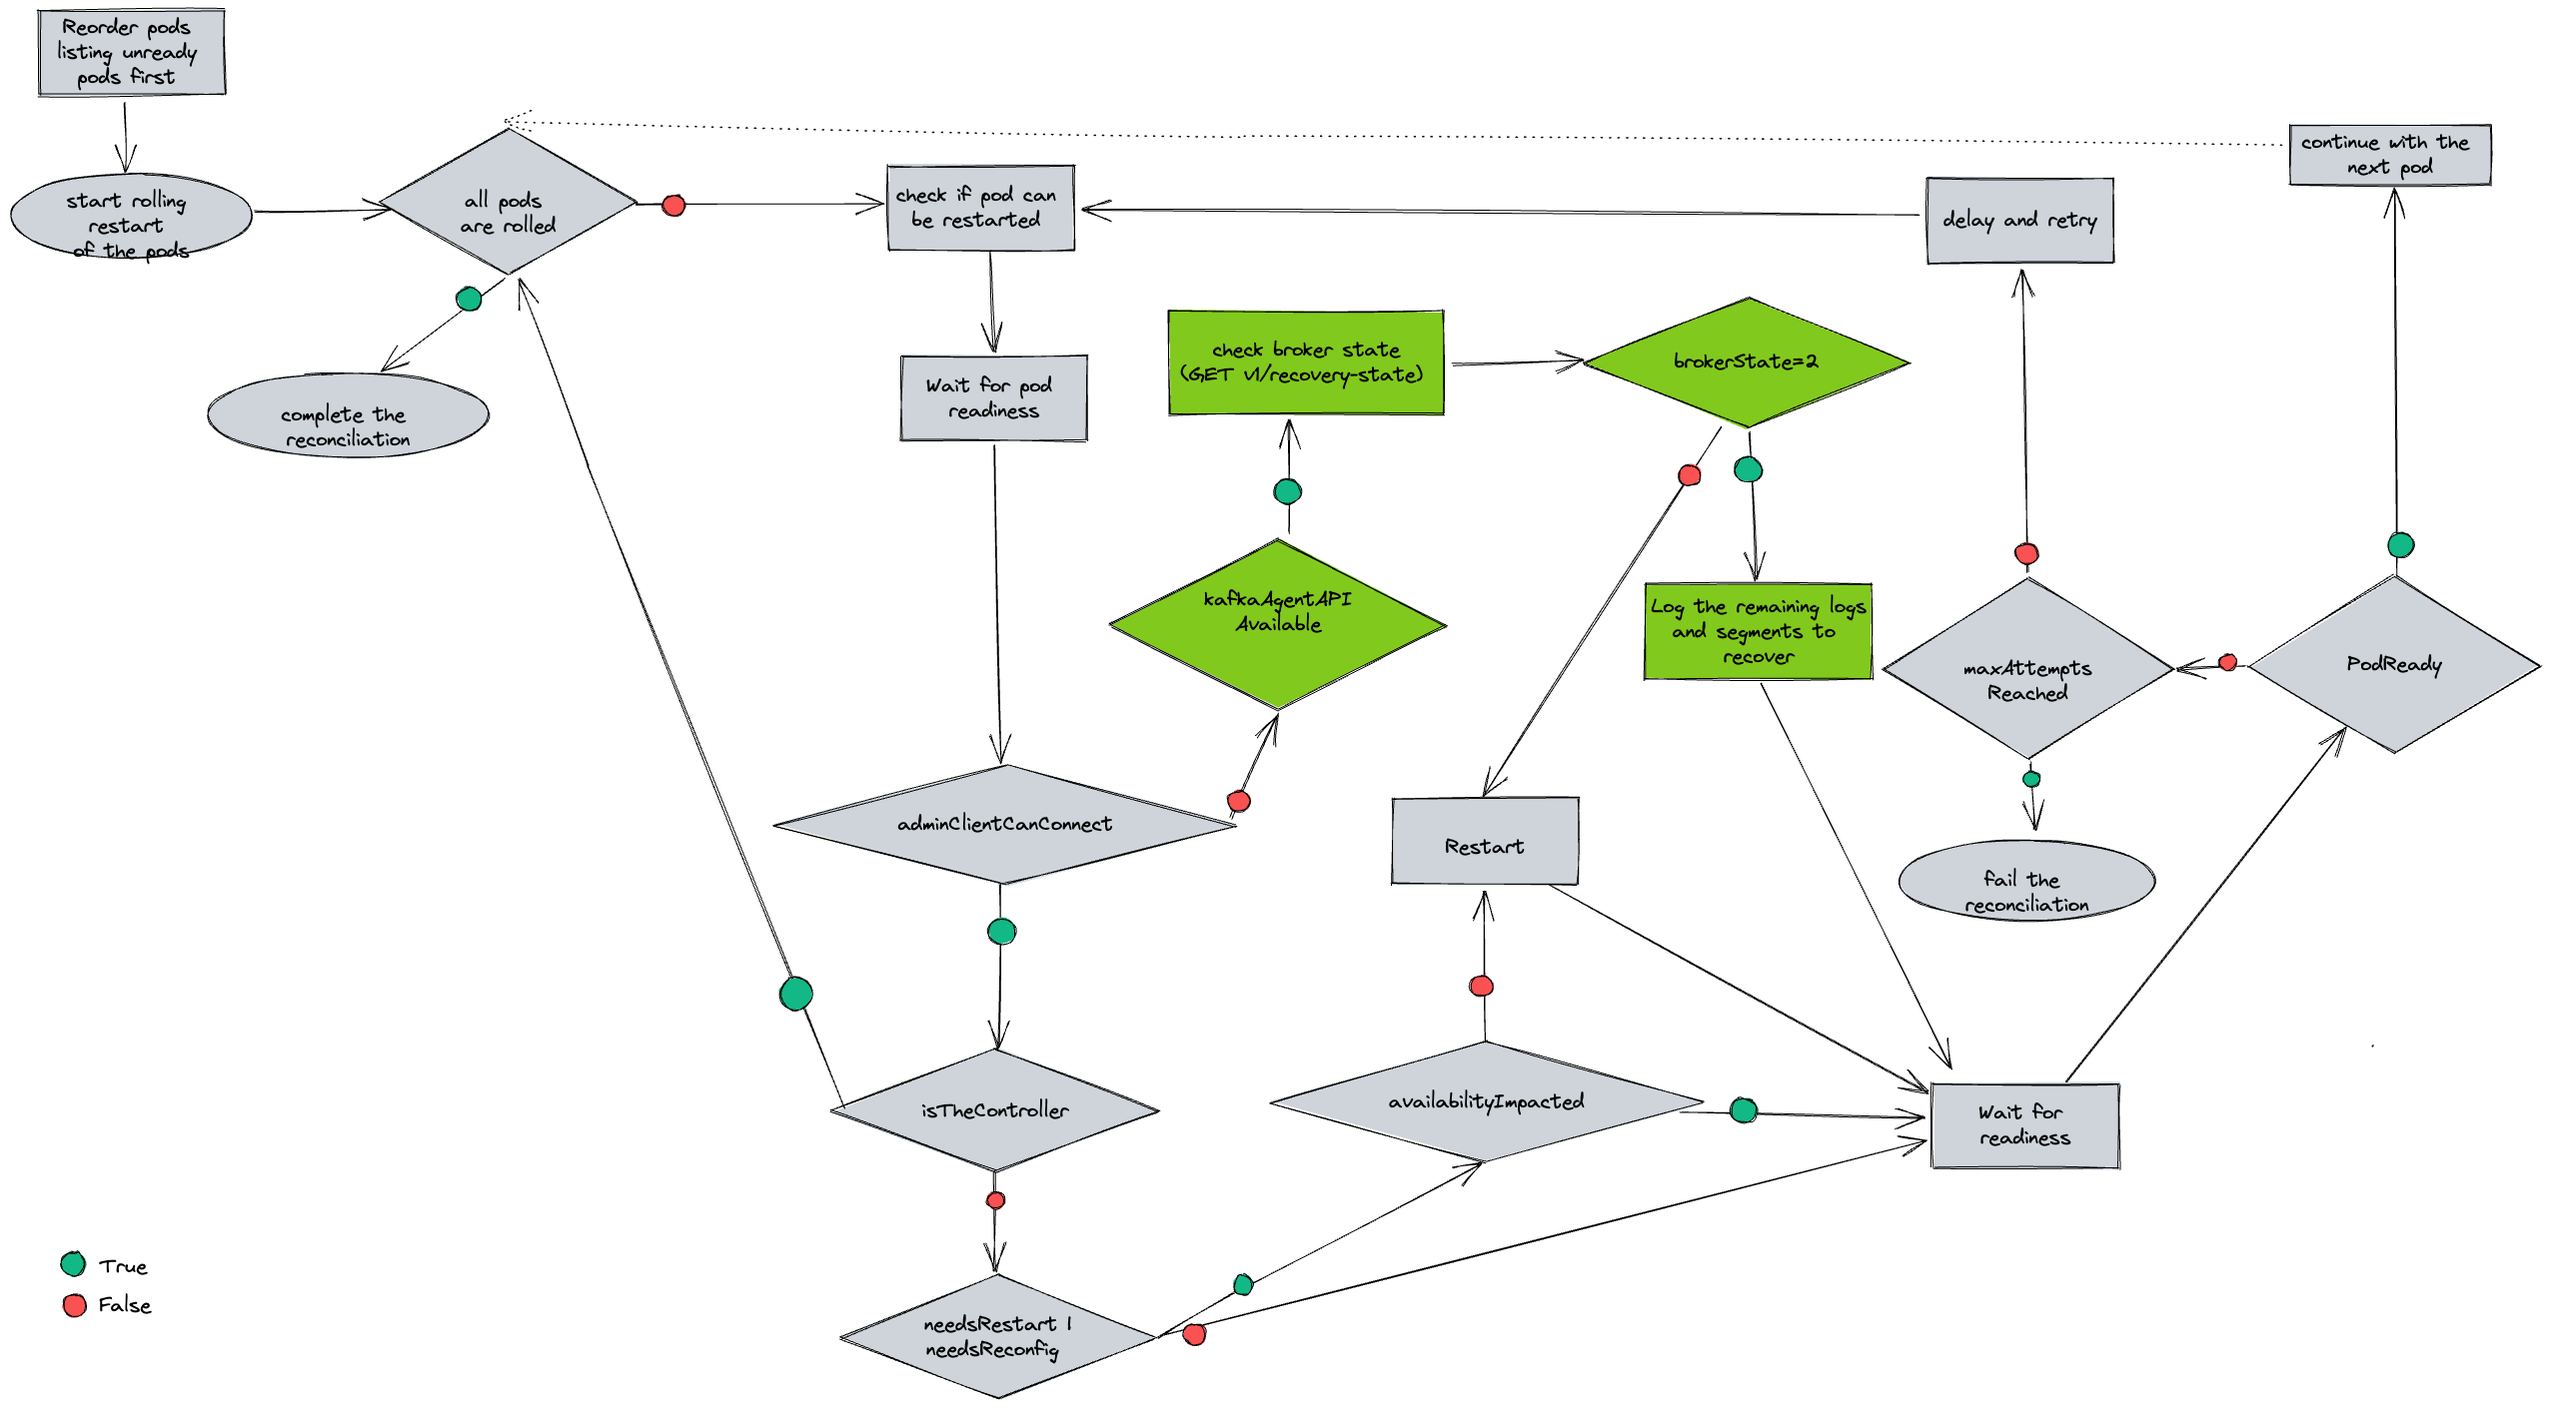
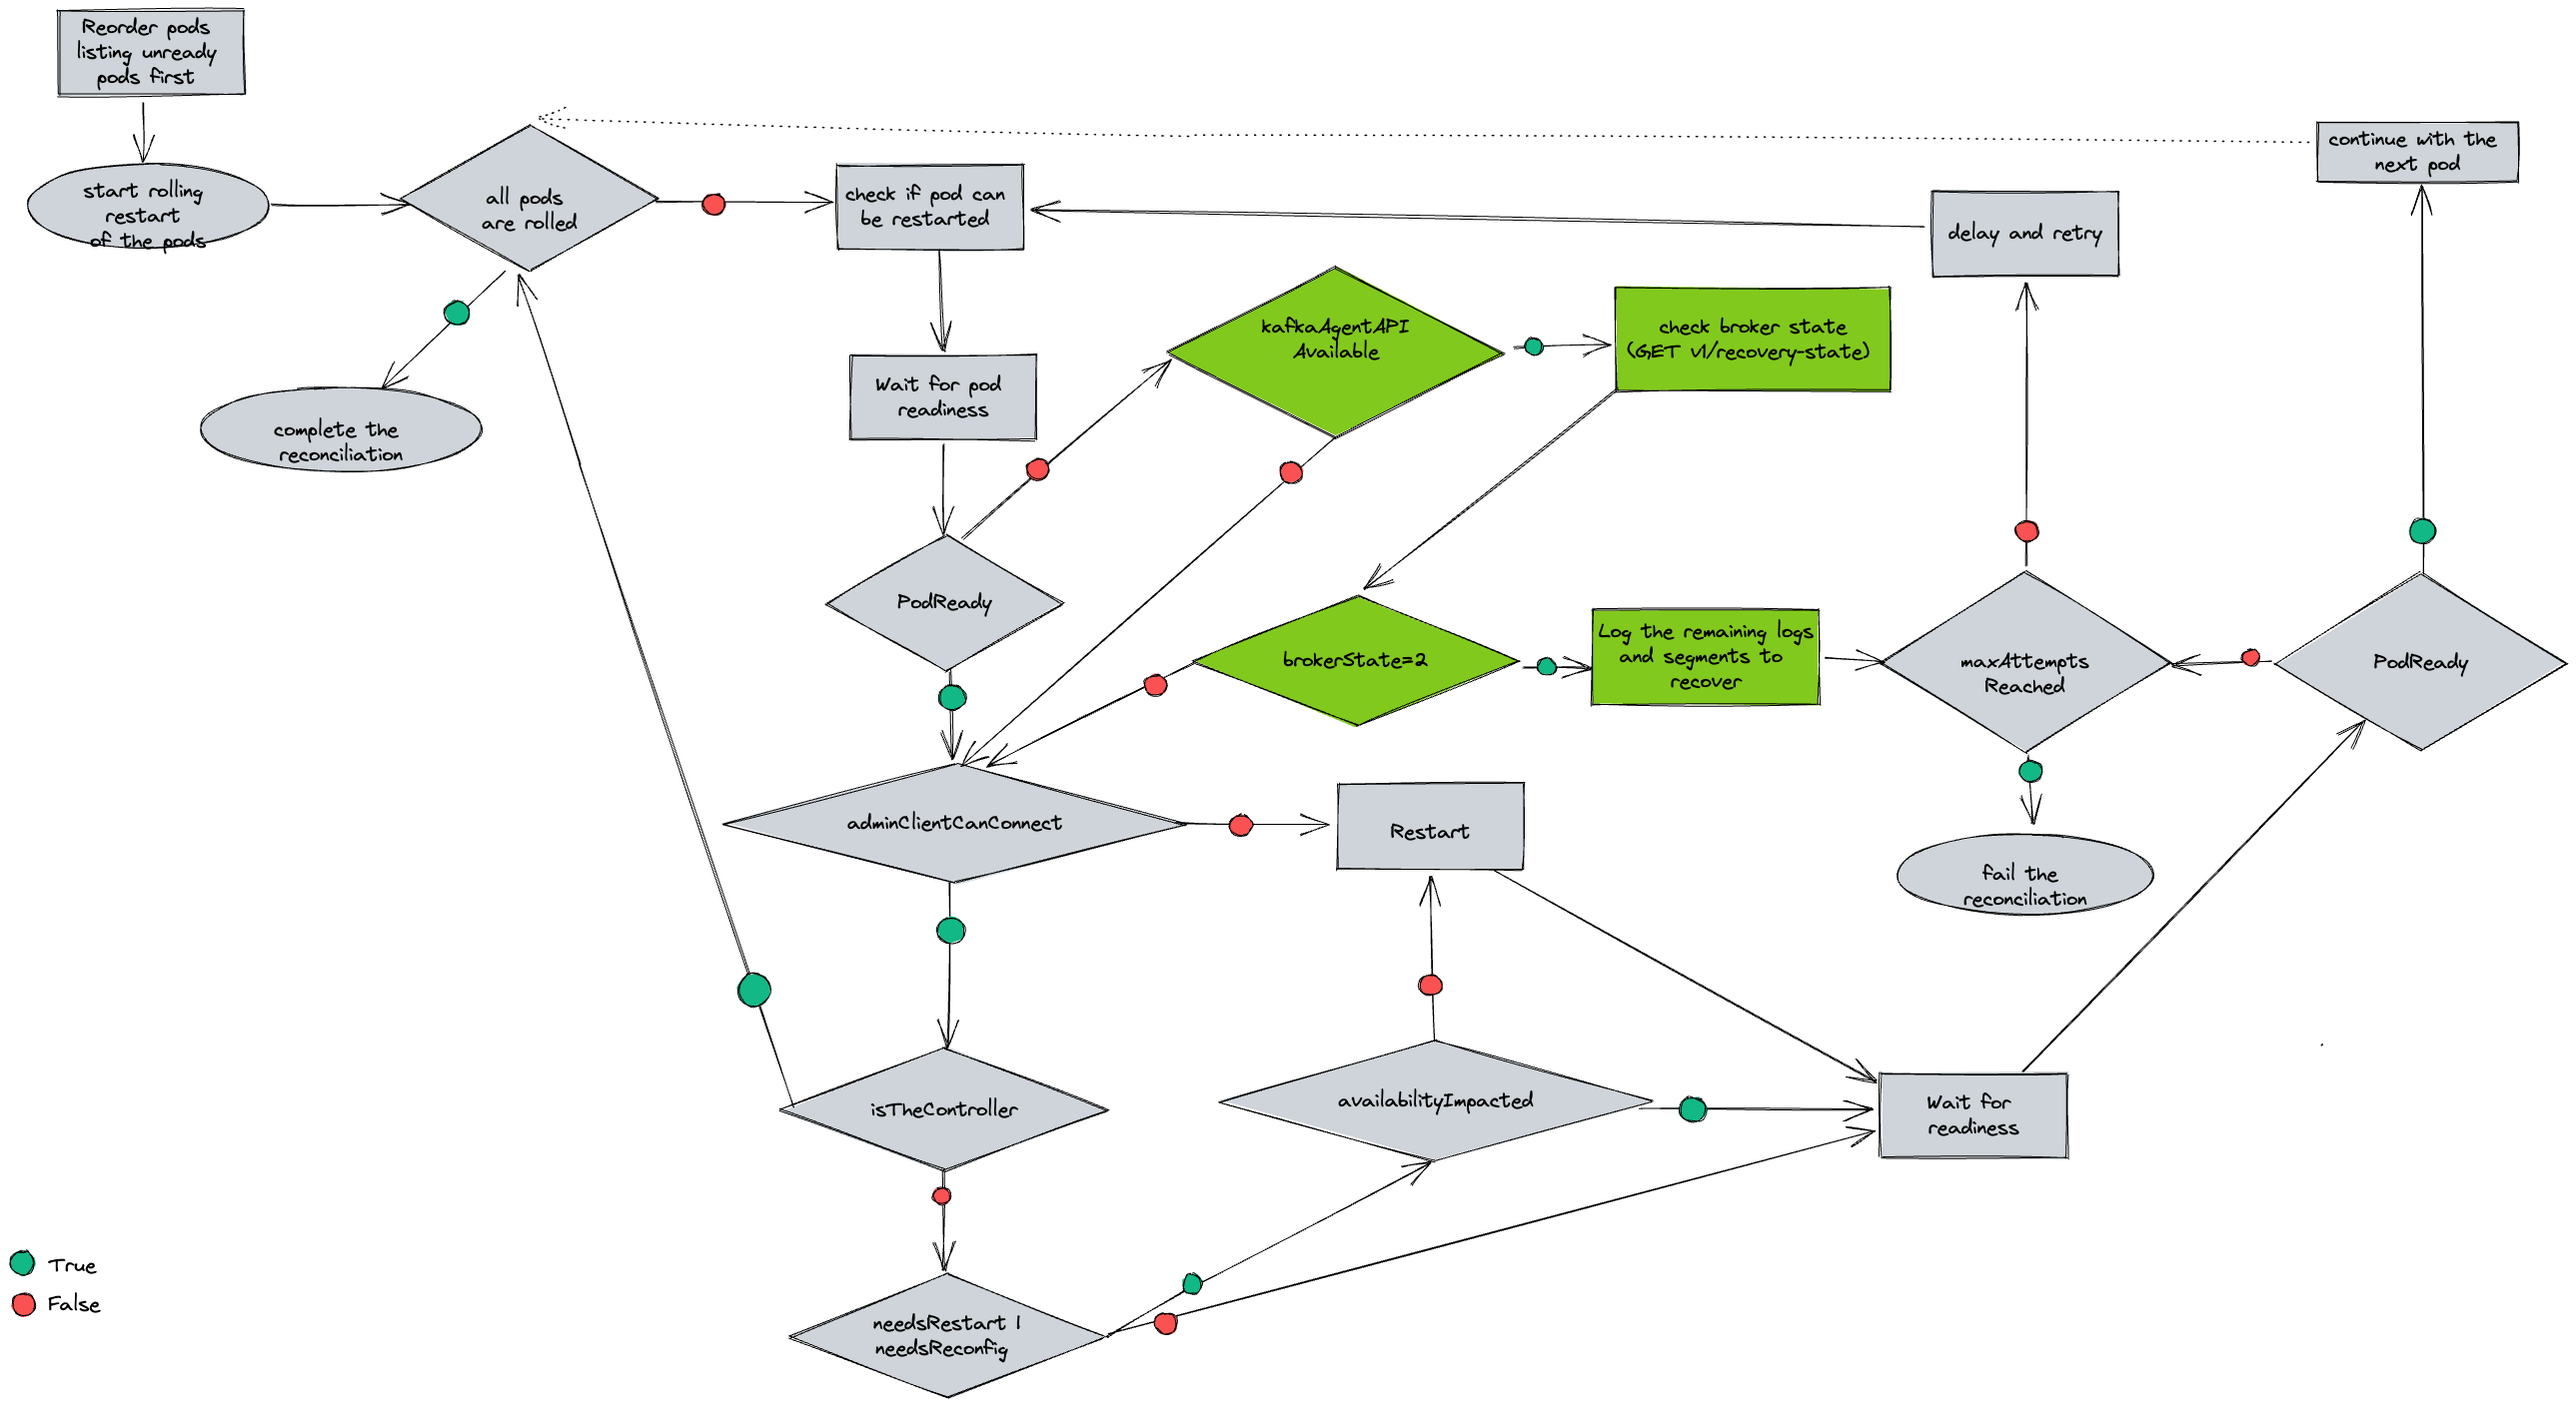
Address review comments

diff --git a/048-avoid-broker-restarts-when-in-recovery.md b/048-avoid-broker-restarts-when-in-recovery.md
@@ -1,24 +1,25 @@
 # Avoid broker restart when in log recovery state
+> Note: This proposal has been updated since the time it was merged.
 
 This proposal describes a solution for KafkaRoller's shortcoming with brokers in log recovery.
 
 ## Current situation
 
-The current logic in KafkaRoller from high level:
+The following list outlines the high-level logic currently implemented in `KafkaRoller` for rolling pods:
 - Take a list of Kafka pods and reorder them based on the readiness.
 - If the pod is the controller, roll it last.
-- If pod is not ready before rolling, wait for it to become ready until the operational timeout reaches.
+- If pod is not ready before rolling, wait for it to become ready until the operation timeout reaches.
 - If pod is in a stuck state e.g CrashLoopBackOff, force restart the pod.
 - If pod is unschedulable, fail the reconcilation. 
 - If the AdminClient connection to pod failed, force restart the pod. 
 - Check if rolling the pod would have an impact on the availability such as causing under replicated partitions.
 - If rolling the pod does affect the availibility, then restart the pod and wait for pod readiness.
-- If pod does not became ready within the operational timeout (300000ms by default) after restarting, then retry until the maximum attempt is reached. 
+- If pod does not became ready within the operation timeout (300000ms by default) after restarting, then retry until the maximum attempt is reached. 
 
 The current flow of KafkaRoller
 ![The current flow of KafkaRoller](images/048-kafka-roller-current-flow.png)
 
-A Kafka broker can take a long time to become ready while performing log recovery. While broker is in log recovery, AdminClient connection cannot be made to the broker. In this case, KafkaRoller force restarts the broker and this can continue indefinitely, because of the log recovery on the broker startup again. KafkaRoller currently does not have a way to know what state a broker is in before making a decision to force restart it.
+A Kafka broker can take a long time to become ready while performing log recovery. While the broker is in log recovery, AdminClient connection cannot be made to the broker. In this case, KafkaRoller force restarts the broker and this can continue indefinitely, because of the log recovery on the broker startup again. KafkaRoller currently does not have a way to know what state a broker is in before making a decision to force restart it.
 
 KafkaAgent currently collects the `kafka.server:type=KafkaServer,name=BrokerState` metric and creates a `kafka-ready` file on disk if the broker state value is greater than `3`(`RUNNING`) and not `127` (`UNKNOWN`). The Kafka readiness check passes if it finds the file on disk.
 
@@ -67,21 +68,20 @@ The proposed flow of KafkaRoller
 ![The proposed flow of KafkaRoller](images/048-kafka-roller-new-flow.png)
 (The changes are highlighted in green.)
 
-Currently, if a Kafka pod does not become ready within the operational timeout, it checks how many times the pod has been retried to roll. If it hasn't reached the maximum number of attempts (6 by default and set to 10 by KafkaReconcilor), it reschedules the rolling of the pod by appending it to the list. Otherwise, reconciliation fails.
+Currently, it waits for the pod to become ready if it's not already in ready state before checking if it can be rolled. If the pod does not become ready within the operation timeout, it logs a warning message and carries on. Instead of carrying on, KafkaRoller will now check the broker state and return an exception if it's in recovery state. The pod then would be retried until the maximum attempt reached.
 
-As described in the graph above, the following steps are added after checking the connection to the broker:
-
-1. If the AdminClient connection failed, check the broker state instead of force restarting the pod.
-2. Use the Pod DNS name to connect to the KafkaAgent API endpoint. If it cannot connect to the endpoint (the connection might timeout or refused because KafkaAgent is stuck or running older version), continue with the current behaviour.
-3. Use the cluster operator's client certificate and keys for mTLS authentication.
-4. Send `GET v1/broker-state` request to the endpoint.
-5. If the HTTP return code is not 200, continue with the current behaviour.
-6. If the `brokerState` value is `2` (`RECOVERY`)
+The following list outlines the high-level logic that will be implemented in `KafkaRoller` for rolling pods:
+1. Wait for pod to become ready if it's not in ready state before checking if it can be rolled.
+2. If pod does not become ready within the operation timeout, check the broker state.
+3. Use the Pod DNS name to connect to the KafkaAgent API endpoint. If it cannot connect to the endpoint (the connection might timeout or refused because KafkaAgent is stuck or running older version), continue with the current behaviour.
+4. Use the cluster operator's client certificate and keys for mTLS authentication.
+5. Send `GET v1/broker-state` request to the endpoint.
+6. If the HTTP return code is not 200, continue with the current behaviour.
+7. If the `brokerState` value is `2` (`RECOVERY`):
      - Log the values of `remainingLogsToRecover` and `remainingSegmentsToRecover` from the JSON response in an `INFO` message.
-     - Call `awaitReadiness()` which periodically checks and waits for readiness until the operational timeout reaches.
-7.  If the `brokerState` value is not `2` (`RECOVERY`), continue with the current behaviour of force restarting the pod and waiting for readiness until the operational timeout reaches.
-8. If the operational timeout is reached, continue with the current behaviour of rescheduling the rolling of the pod. This will result in repeating from step 1 if broker is still in log recovery.
-9. If the maximum number of attempts has been reached, include log recovery in the reason for failure.
+     - Return an exception to repeat from step 1 until the maximum number of attempts is reached.
+     - If the maximum number of attempts has been reached, include log recovery in the reason for failure.
+8. If the `brokerState` value is not `2` (`RECOVERY`), continue with the current behaviour that may force restart the pod.
 
 ### For future consideration:
 
